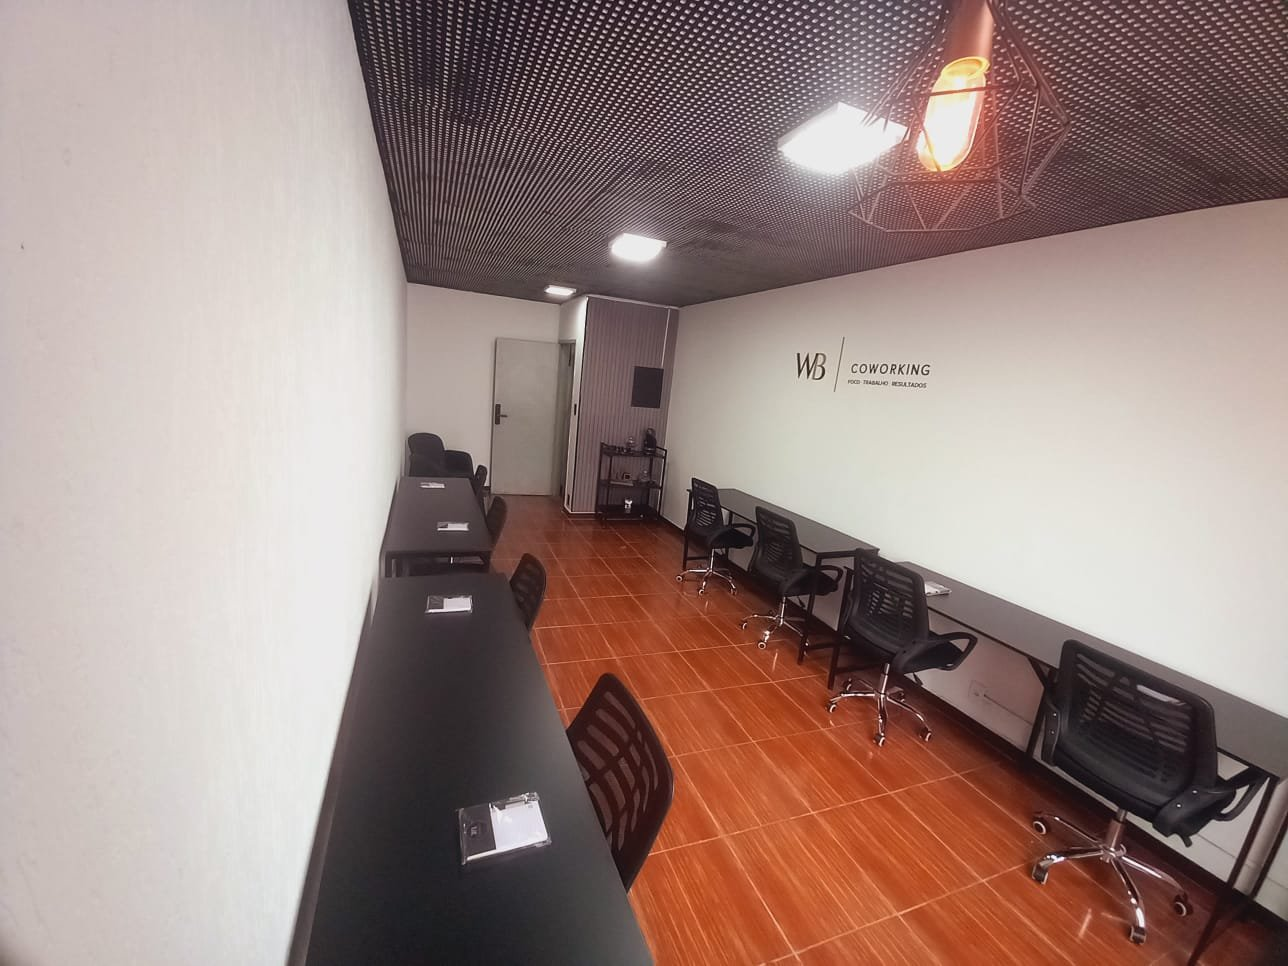
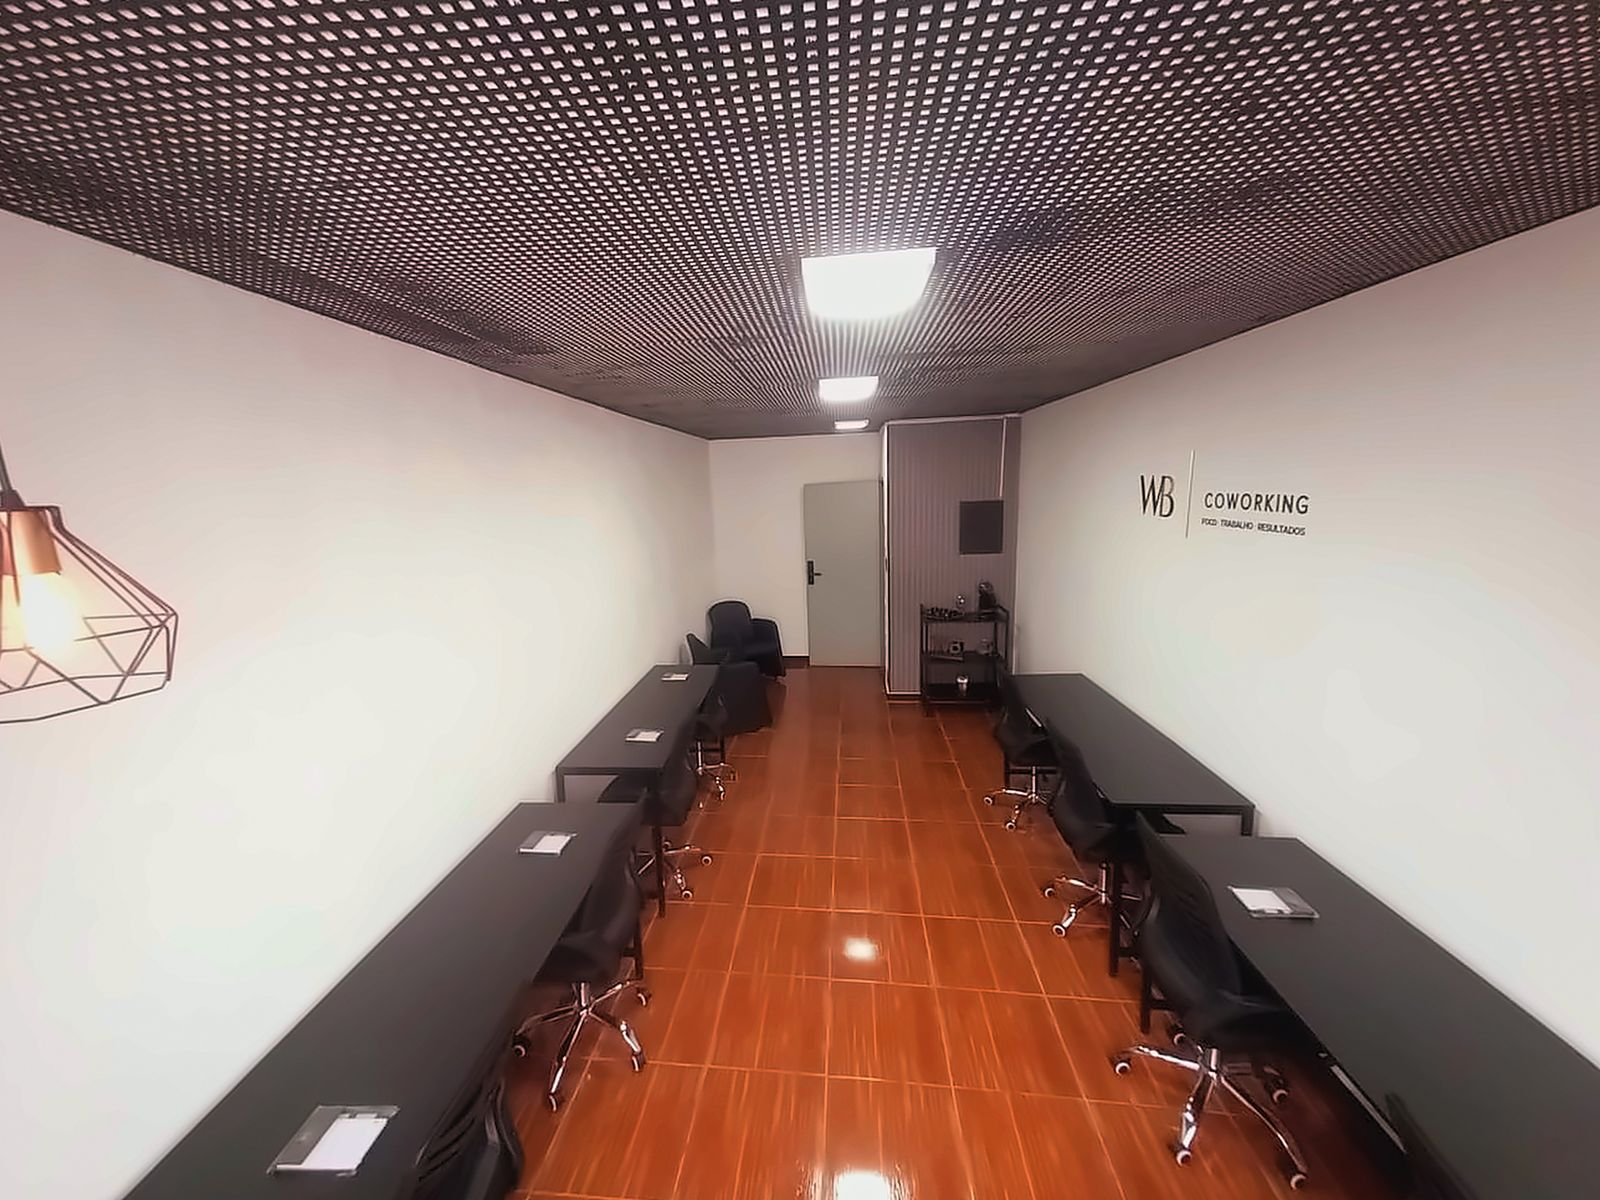
Fotos oficiais (as mesmas do Google) no site e no app
- Particular 2 fotos, Compartilhada 3, Coworking 7, Recepção 4
- Galeria do site e imagem de compartilhamento (og-cover) atualizadas

diff --git a/index.html b/index.html
@@ -1037,7 +1037,7 @@
             </div>
         </div>
         <div class="s-hero-photo">
-            <img src="img/login-bg.jpg" alt="Letreiro do WB Coworking — Foco, Trabalho, Resultados" fetchpriority="high">
+            <img src="img/site-letreiro.jpg" alt="Letreiro do WB Coworking — Foco, Trabalho, Resultados" fetchpriority="high">
             <div class="s-badge"><b>Foco · Trabalho · Resultados</b>Penha · São Paulo</div>
         </div>
     </div>
@@ -1050,7 +1050,7 @@
         <p class="s-lead s-reveal">Do atendimento sigiloso ao dia inteiro de trabalho focado: você reserva só as horas que precisa, direto pelo celular.</p>
         <div class="s-spaces">
             <article class="s-space s-reveal">
-                <div class="s-space-img" style="background-image:url('img/sala-particular-1.jpg')" onclick="siteGallery('particular')" role="button" aria-label="Ver fotos da Sala Particular"><span class="s-count">📷 Ver fotos</span></div>
+                <div class="s-space-img" style="background-image:url('img/sala-particular-1.jpg')" onclick="siteGallery('particular')" role="button" aria-label="Ver fotos da Sala Particular"><span class="s-count">📷 2 fotos</span></div>
                 <div class="s-space-body">
                     <h3>Sala Particular</h3>
                     <p>Só para você e seu cliente. Ideal para atendimentos, audiências online e reuniões sigilosas. ❄ Ar-condicionado.</p>
@@ -1059,7 +1059,7 @@
                 </div>
             </article>
             <article class="s-space s-reveal">
-                <div class="s-space-img" style="background-image:url('img/sala-compartilhada-1.jpg')" onclick="siteGallery('compartilhada')" role="button" aria-label="Ver fotos da Sala Compartilhada"><span class="s-count">📷 Ver fotos</span></div>
+                <div class="s-space-img" style="background-image:url('img/sala-compartilhada-1.jpg')" onclick="siteGallery('compartilhada')" role="button" aria-label="Ver fotos da Sala Compartilhada"><span class="s-count">📷 3 fotos</span></div>
                 <div class="s-space-body">
                     <h3>Sala Compartilhada</h3>
                     <p>Reserve uma estação por pessoa ou a sala inteira como <strong style="color:var(--text)">sala de reunião</strong> para até 8 pessoas. 🌀 Ventilador.</p>
@@ -1102,15 +1102,19 @@
         <p class="s-eyebrow s-reveal">Galeria</p>
         <h2 class="s-title s-reveal">Conheça o <em>espaço</em></h2>
         <div class="s-gallery s-reveal" id="sGallery">
-            <img class="s-big" src="img/coworking-2.jpg" alt="Sala Coworking" loading="lazy">
+            <img class="s-big" src="img/coworking-1.jpg" alt="Sala Coworking" loading="lazy">
             <img src="img/recepcao-1.jpg" alt="Recepção" loading="lazy">
             <img src="img/sala-particular-1.jpg" alt="Sala Particular" loading="lazy">
             <img src="img/sala-compartilhada-1.jpg" alt="Sala Compartilhada" loading="lazy">
-            <img src="img/coworking-4.jpg" alt="Sala Coworking" loading="lazy">
-            <img src="img/coworking-3.jpg" alt="Sala Coworking" loading="lazy">
-            <img src="img/recepcao-2.jpg" alt="Recepção" loading="lazy">
             <img src="img/coworking-5.jpg" alt="Sala Coworking" loading="lazy">
-            <img src="img/coworking-6.jpg" alt="Sala Coworking" loading="lazy">
+            <img src="img/recepcao-4.jpg" alt="Recepção com café" loading="lazy">
+            <img src="img/coworking-3.jpg" alt="Sala Coworking" loading="lazy">
+            <img src="img/sala-particular-2.jpg" alt="Sala Particular" loading="lazy">
+            <img src="img/recepcao-2.jpg" alt="Recepção com TV" loading="lazy">
+            <img src="img/coworking-7.jpg" alt="Espaço café" loading="lazy">
+            <img src="img/sala-compartilhada-2.jpg" alt="Sala Compartilhada" loading="lazy">
+            <img src="img/recepcao-3.jpg" alt="Recepção" loading="lazy">
+            <img src="img/coworking-4.jpg" alt="Sala Coworking" loading="lazy">
         </div>
     </div>
 </section>
@@ -1862,9 +1866,9 @@ const CFG = {
         // reservada inteira como Sala de Reunião (meetingMax pessoas).
         // Valores ficam em PRICING (editável pelo painel admin), não aqui.
         { id: 'particular',    nome: 'Sala Particular',    emoji: '🔒', desc: '⚖ Atendimento privativo · ❄ AC · 📷 Câmera', pricing: 'hora', stations: 1,
-          photos: ['img/sala-particular-1.jpg'] },
+          photos: ['img/sala-particular-1.jpg', 'img/sala-particular-2.jpg'] },
         { id: 'compartilhada', nome: 'Sala Compartilhada', emoji: '🤝', desc: '🪑 Estação ou 👥 Sala de Reunião · 🌀 Ventilador · 📷 Câmera', pricing: 'estacao', stations: 4, meetingMax: 8,
-          photos: ['img/sala-compartilhada-1.jpg'] },
+          photos: [1,2,3].map(n => 'img/sala-compartilhada-' + n + '.jpg') },
         { id: 'coworking',     nome: 'Sala Coworking',     emoji: '💻', desc: '💻 8 estações individuais · ❄ AC · 🔌 Tomadas', pricing: 'estacao', stations: 8,
           address: 'Av. Amador Bueno da Veiga, 1970 — 2º andar, Sala 15 · Penha · SP',
           photos: [1,2,3,4,5,6,7].map(n => 'img/coworking-' + n + '.jpg') }
